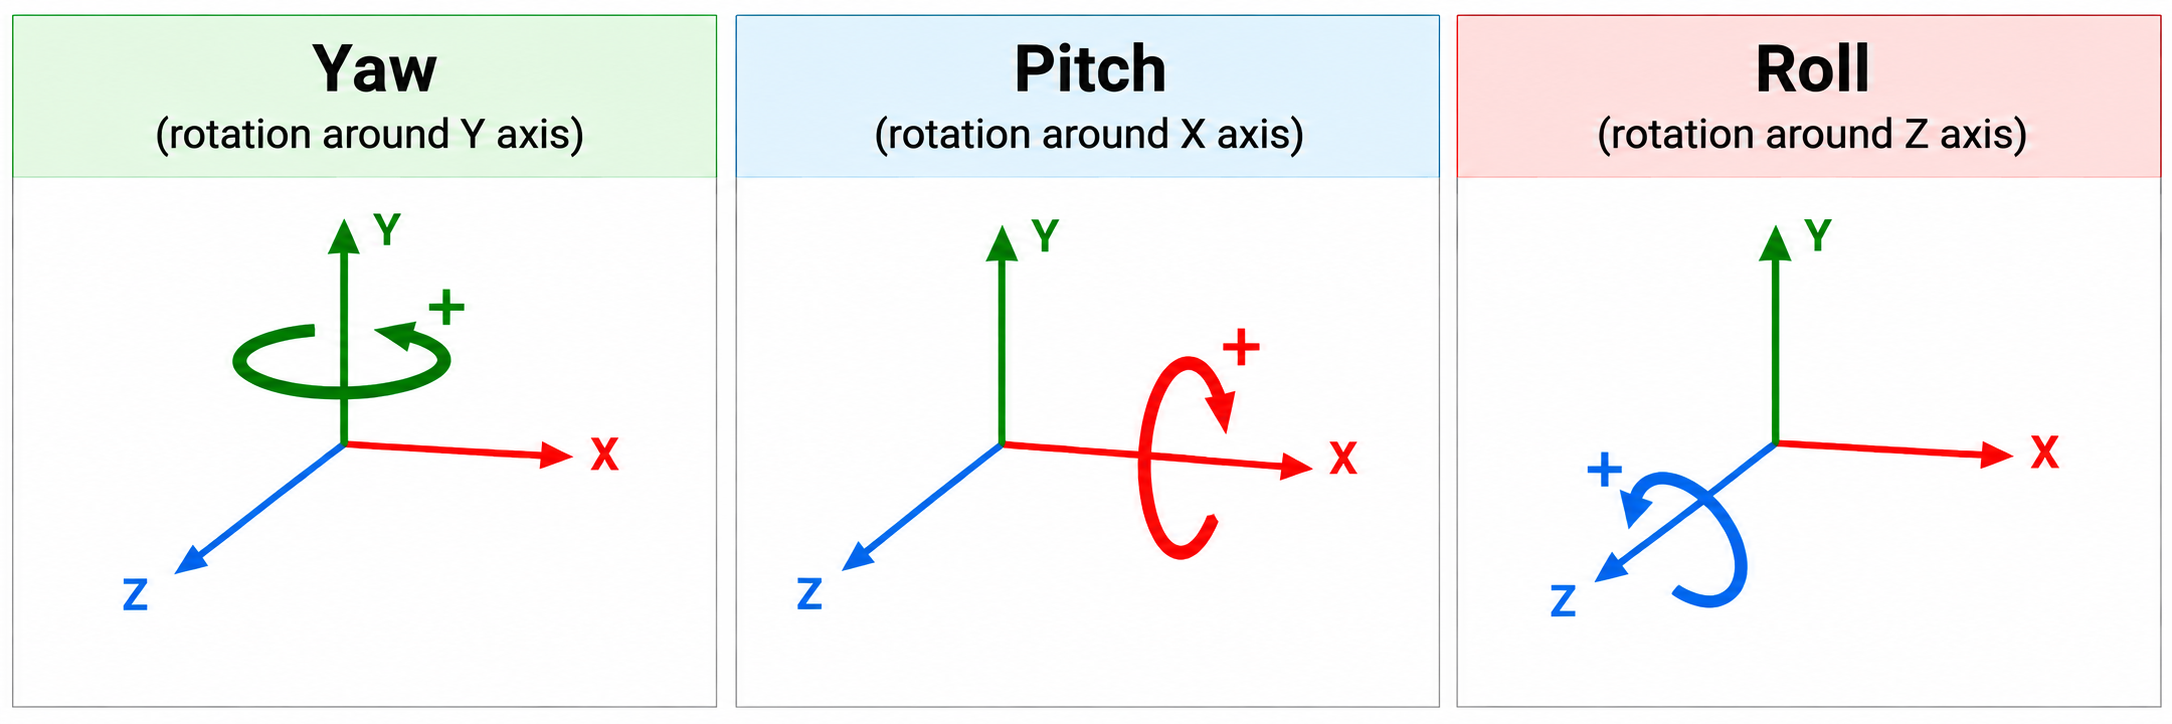
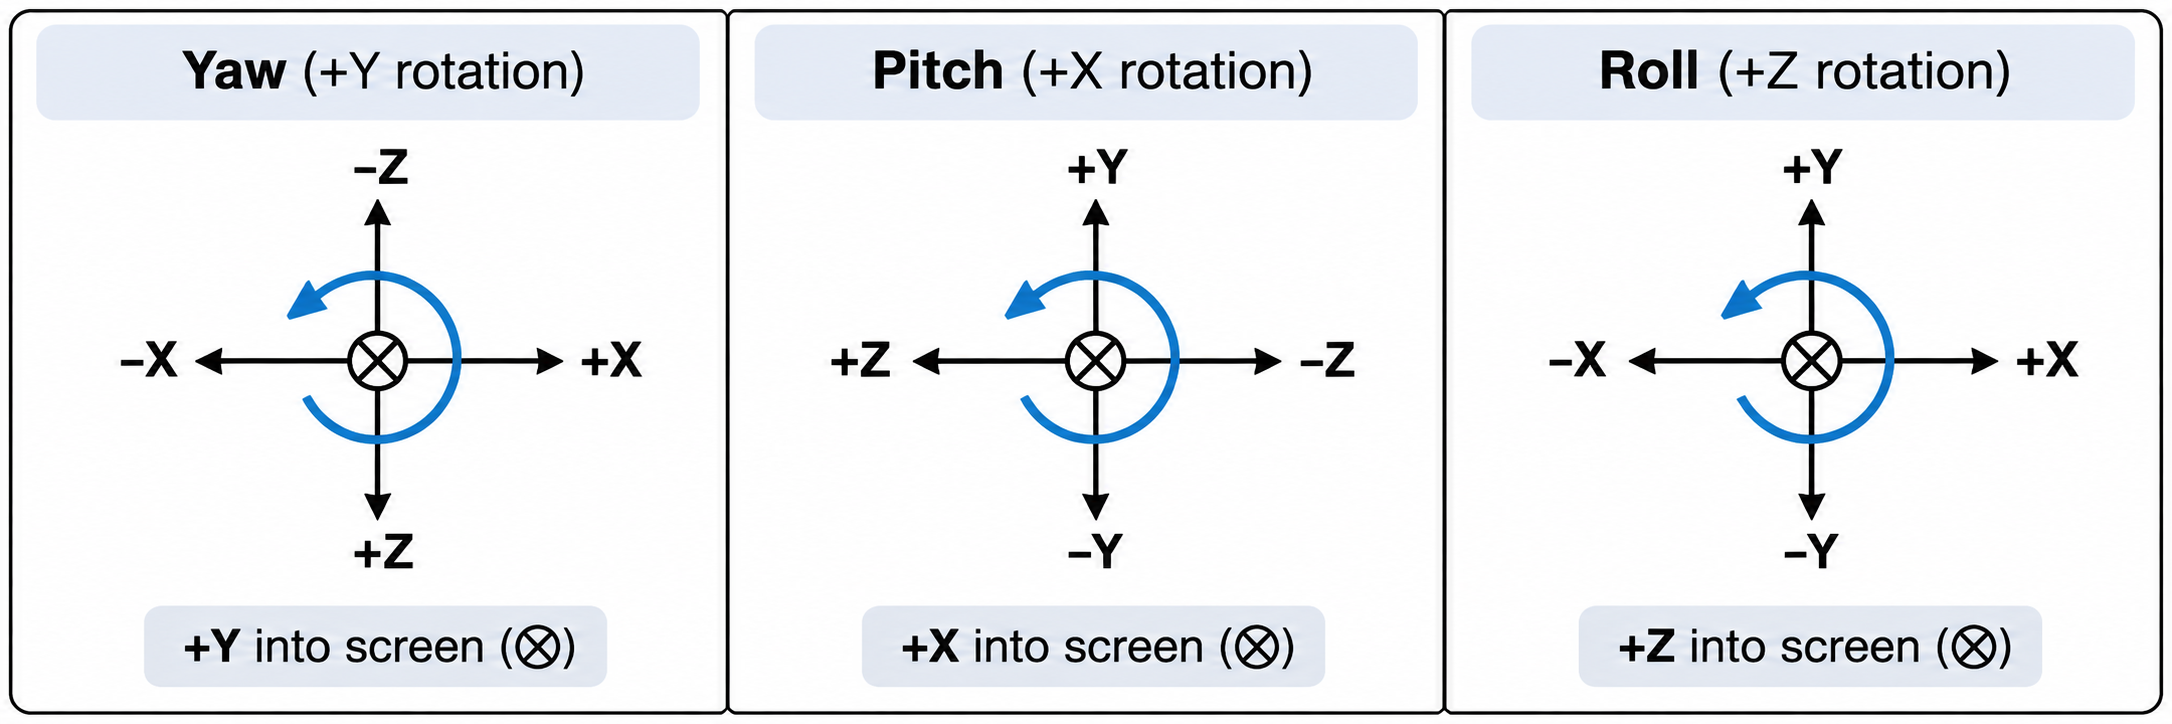
Adds a section on world spaces axes directions

diff --git a/lessons/lesson_6__interactive_3d_camera/README.md b/lessons/lesson_6__interactive_3d_camera/README.md
@@ -483,7 +483,7 @@ And this is what happens when viewport transform is not connected to window resi
 Do you see the difference?
 
 
-# Yaw, Pitch, Roll
+# 2. Yaw, Pitch, Roll
 
 Before understanding how we can rotate camera around an object and how to do it by tracking mouse movements, we first need to understand 3 important concepts in rendering (and actually overall in math and physics). 
 
@@ -498,6 +498,47 @@ Remember how in lesson 5 I have spent entire sections talking about camera rotat
 So what are they? I hope this image will be self explanatory.
 
 ![yaw, pitch, roll](assets/yaw_pitch_roll.png)
+
+From this image, we can understand that:
+
+- **Yaw** is a rotation around the Y axis
+- **Pitch** is a rotation around X axis
+- **Roll** is a rotation around Z axis
+
+Great, we know their definitions, but we still do not know what is a positive and negative rotation around each axis.
+
+
+## 2.1. World Space Axes
+
+First of all, let's again understand the axes directions and positive rotations. We have to set the rules to tell what is positive and negative rotation and what is up - down, left - right, forward - backward.
+
+What I like to do for these conventions is follow a pure math. In school we learned that a positive rotation is a counterclockwise if our +X is pointing right and +Y is pointing up. Following this example let's build our axes.
+
+Because the camera is orbiting an object (and not being rotated itself), we have to draw axes from that object's perspective, or rather from a perspective of the origin.
+
+First of all, where is the forward and backward for that object? This is the key rule, according to which we will build all the remaining axes. In lesson 5 we learned that -Z axis is pointing towards the screen when the camera is put at the initial position. Since the camera is looking at the object at the object at the origin it must mean that for that object the +Z forward for it.
+
+So now we can say that for the object at the origin (0, 0, 0), the forward direction would be like looking directly forward.
+
+Ok, now in the world coordinates, what is right and up (+X and +Y axes)? For this configuration we can imagine primary math classes, where we always said that +X is right and +Y is up. So we can apply the same rules for the object at the origin also.
+
+So now, from the point of view of the object at the origin we have these axes and it's configurations:
+
+- +X ---> right
+- +Y ---> up
+- +Z ---> forward
+
+Great, we have set the rules for the world space. Now how about a camera, how would these coordinates look like from the camera point of view?
+
+When creating camera, a simple rule we can foloow is to put the camera at the model space coords: $(0, 0, +z)$ when we are creating a camera object. Ok, we have a camera position, now what about where the camera looks?
+
+In this lesson, one of the goals is to allow the users to control the camera, Since the object is stationary, with control we are essentially just changing the orbital position of the camera. Since camera is orbiting, it will always look into the same point in space and the best place to at (at least for this lesson) is the origin (where we have our pyramid created).
+
+
+## 2.2. Positive Rotations
+
+We defind axes, we need to define what are positive rotations. Since the camera is the one that is being rotated around the origin, the positive rotation is defined relative to the origin. 
+
 
 
 
